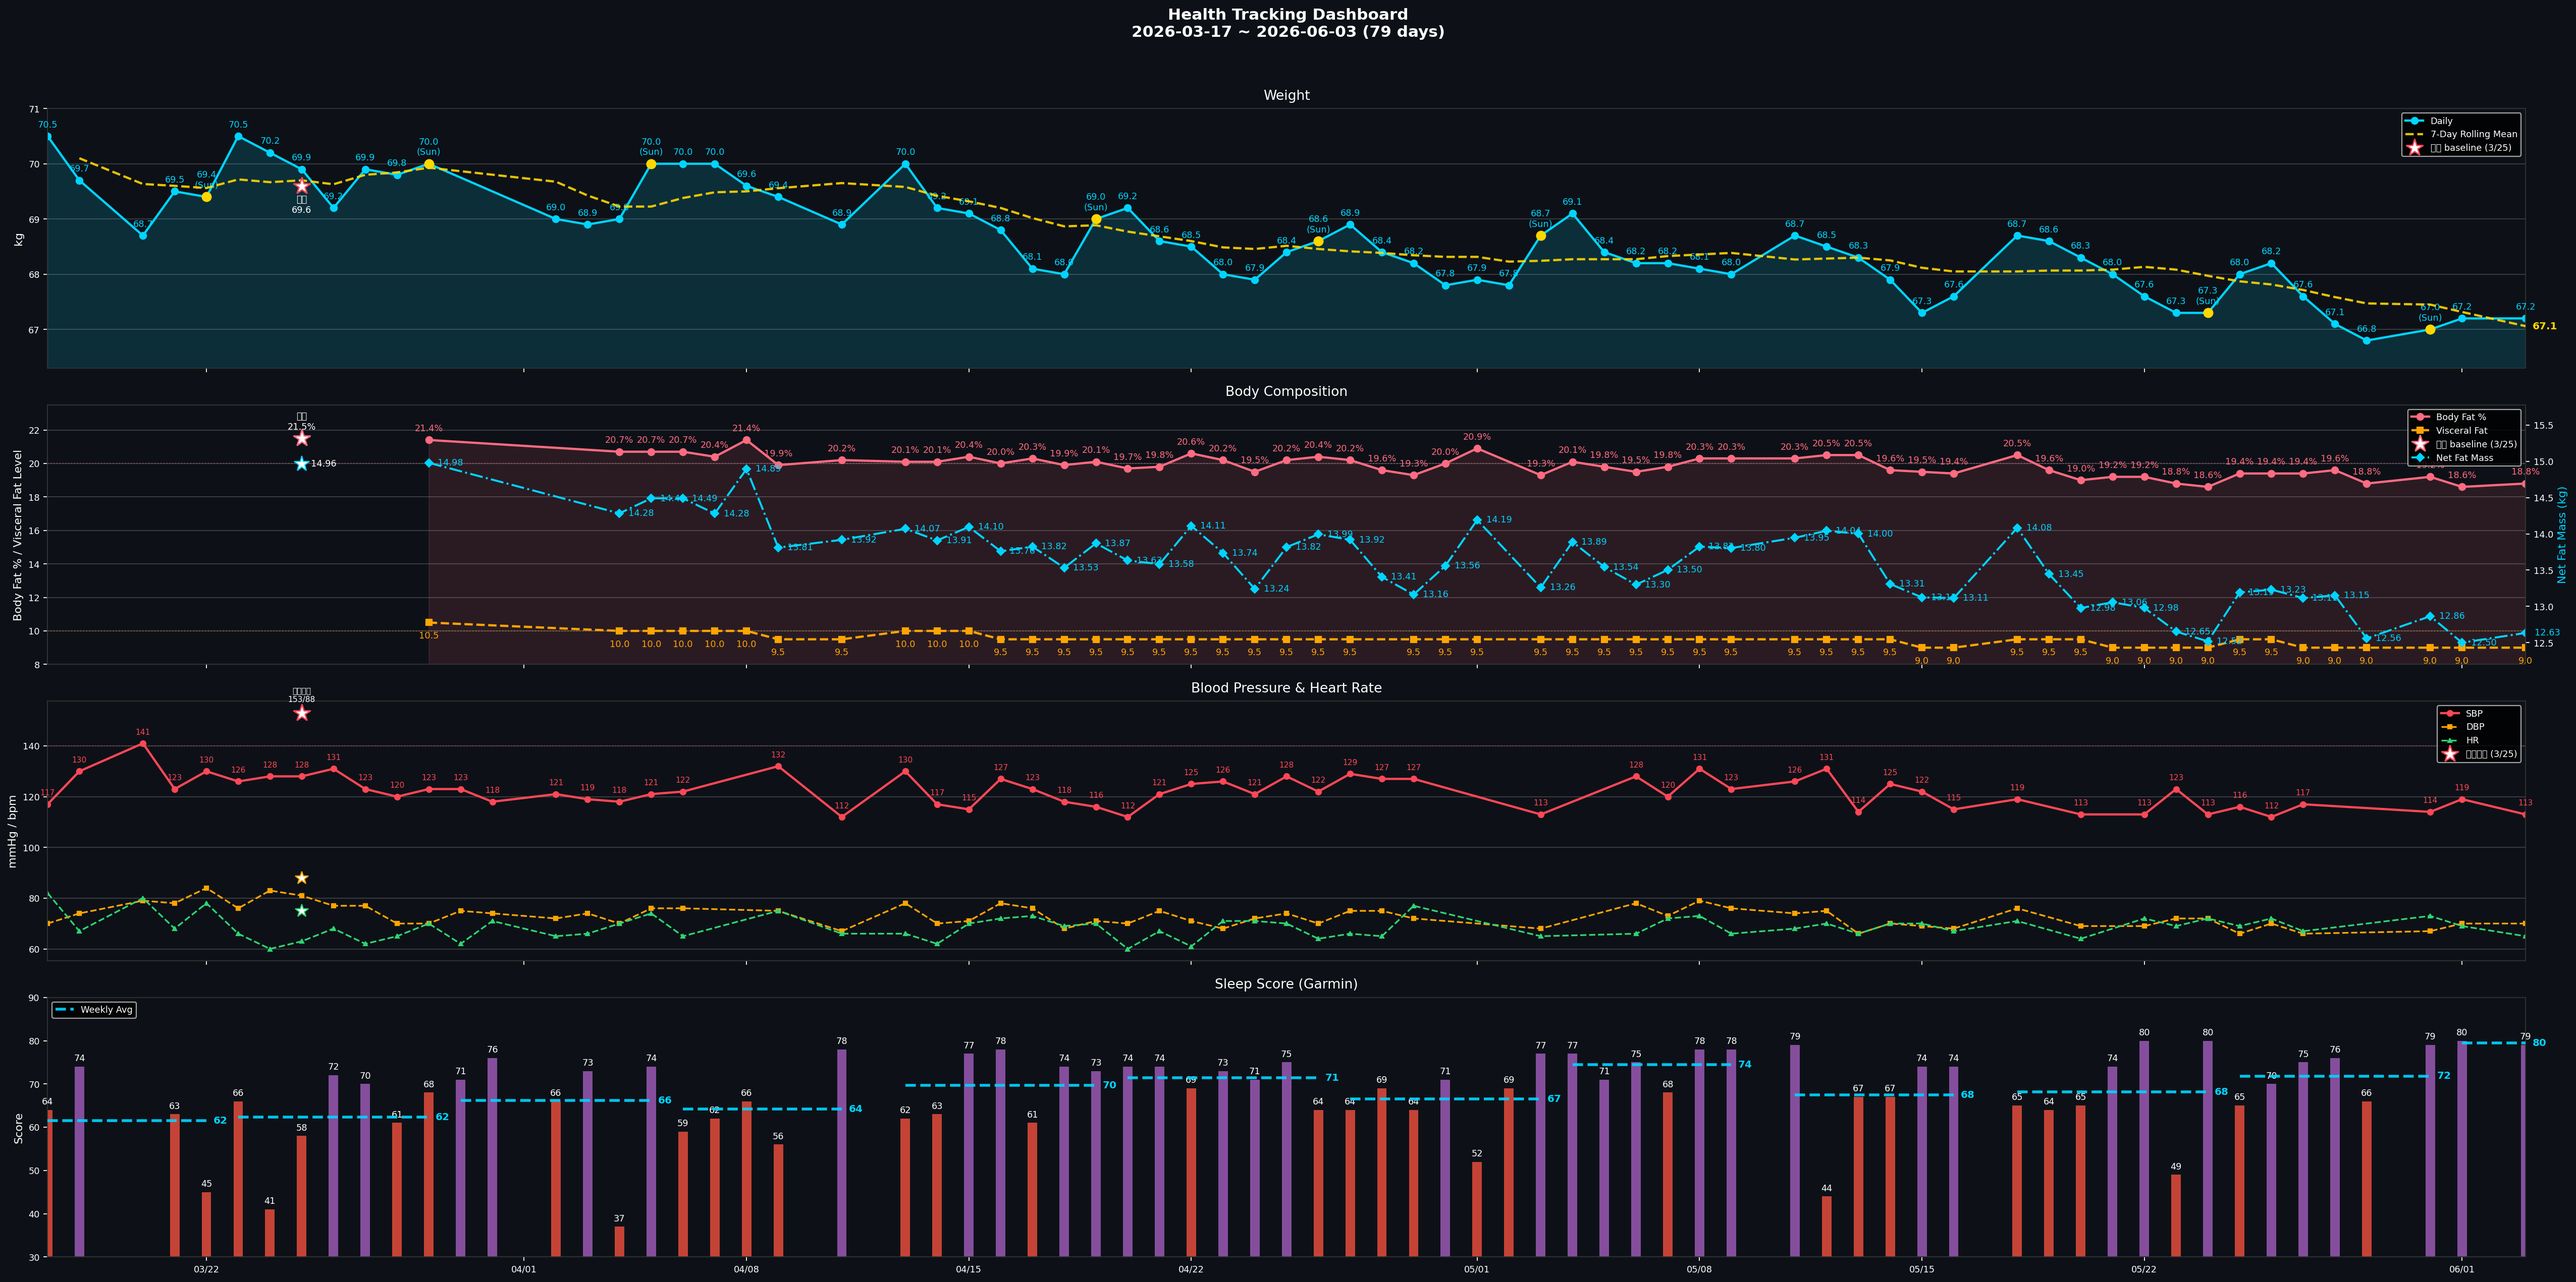
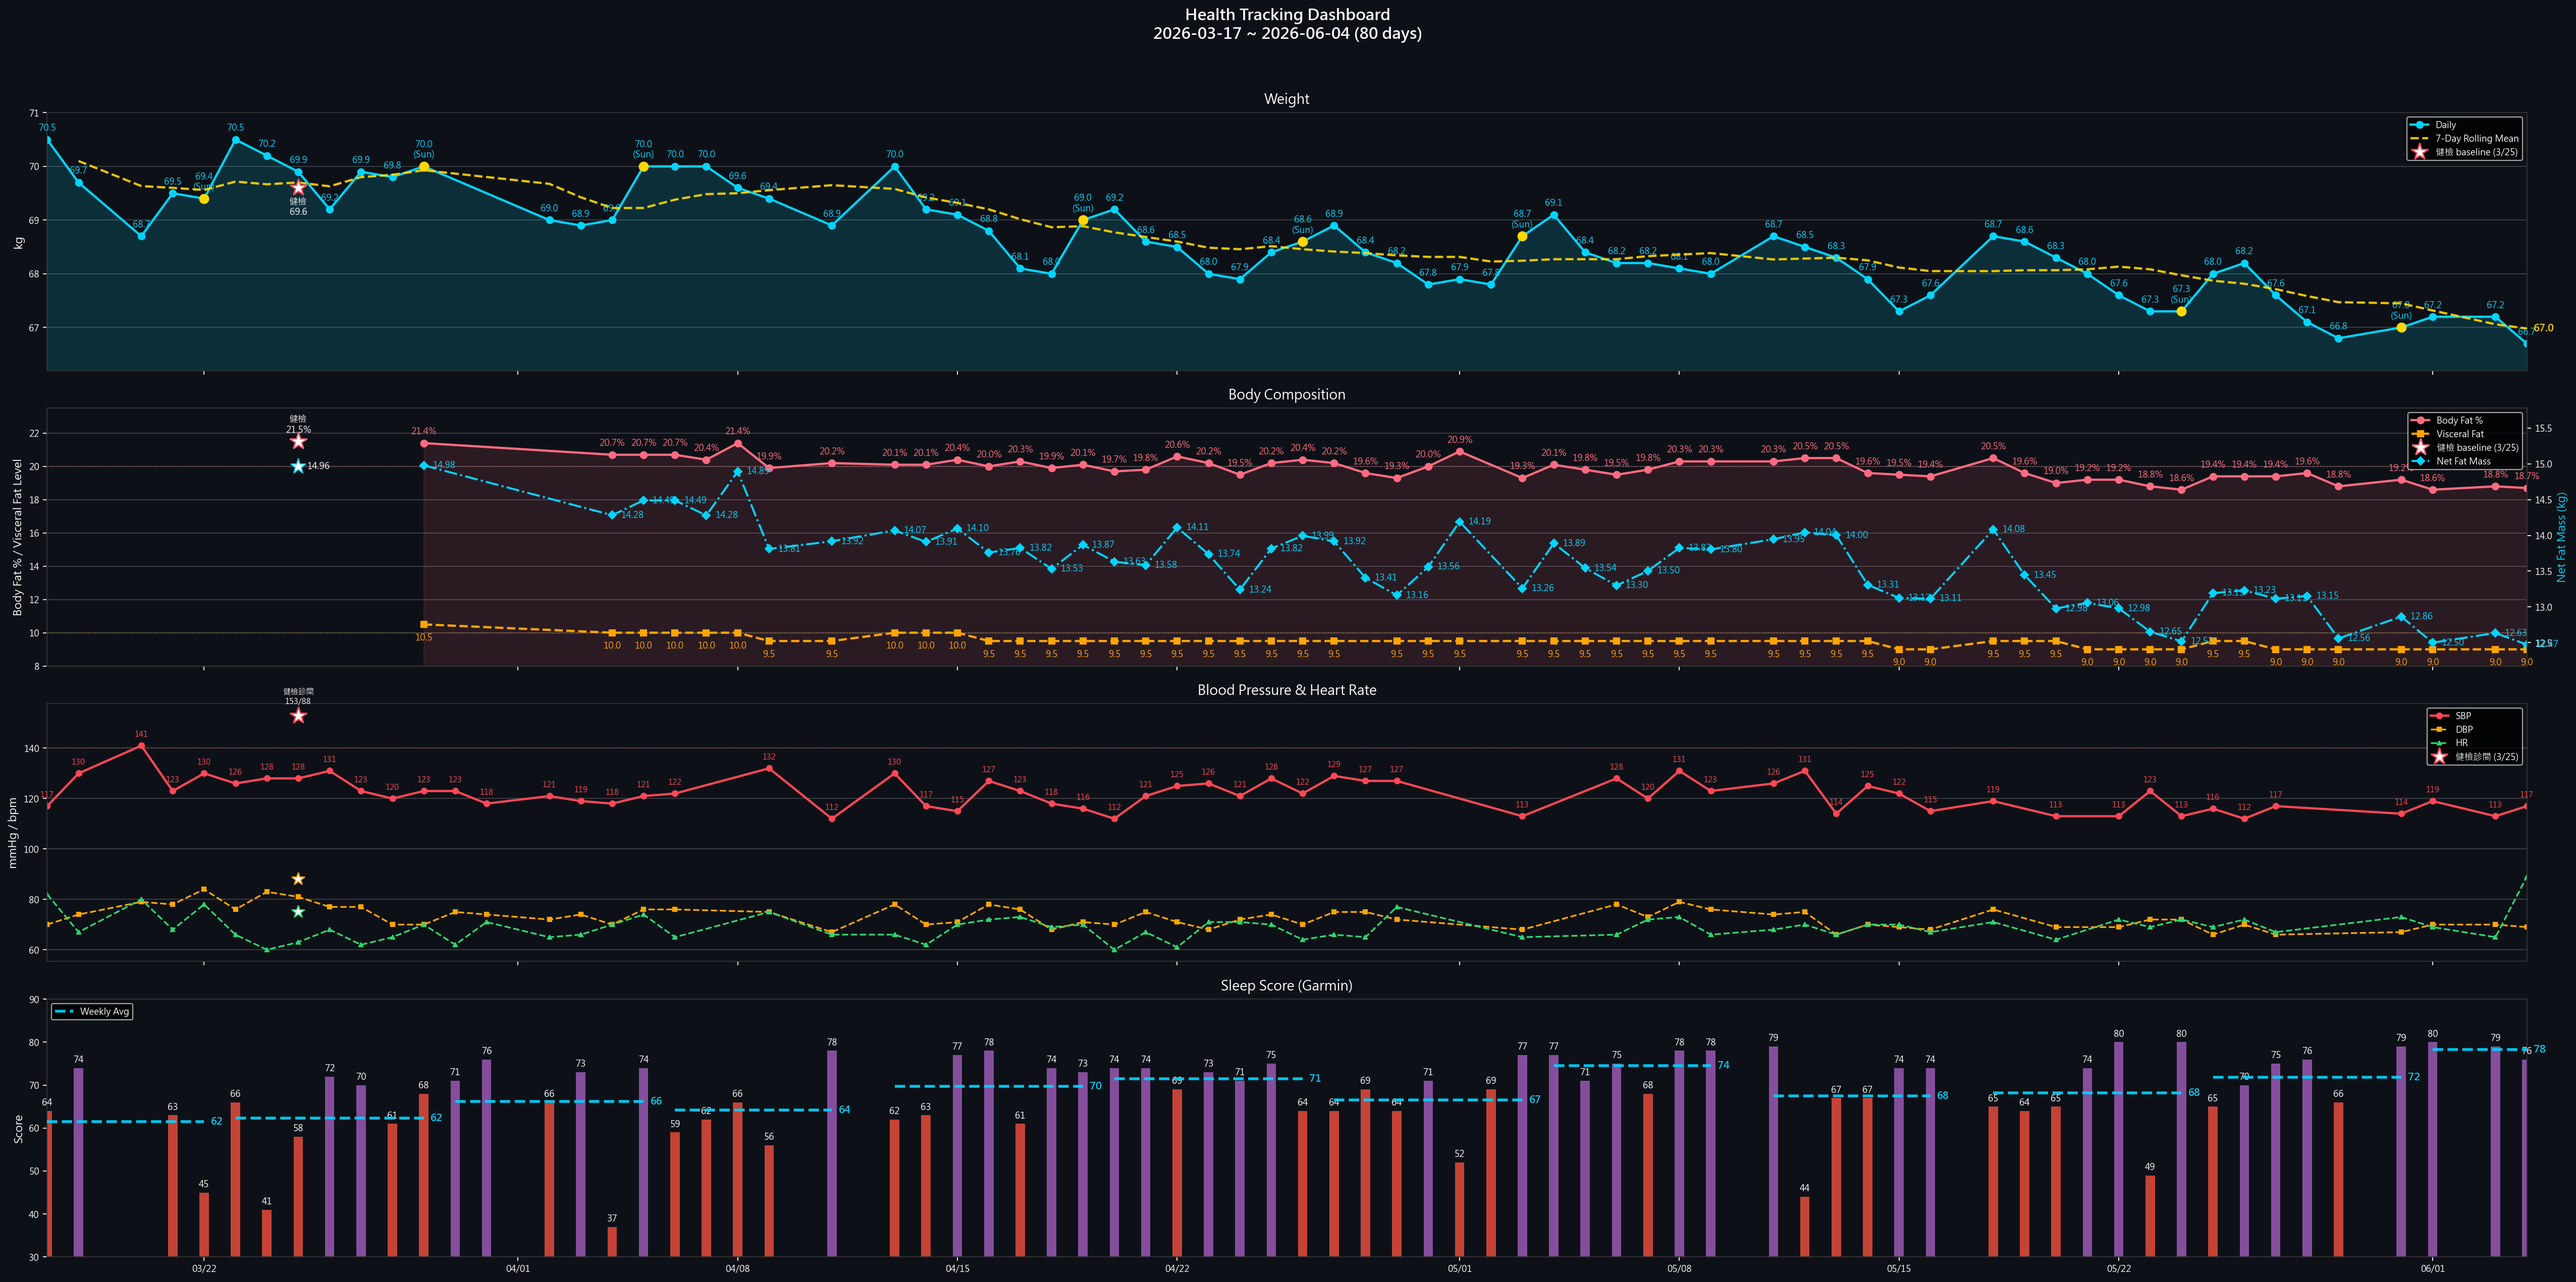
daily: 2026-06-04 健康紀錄
- 體重 66.7kg / 體脂 18.7% / 內臟脂肪 9.0 / 腰圍 82cm
- BP 117/69/89｜Sleep Score 76｜BB 41｜主觀恢復 3
- SpO2 最低 92%（回升）｜昨日飲水 2.0L 已回寫 Garmin
- 身體信號：清

diff --git a/data.js b/data.js
@@ -17,8 +17,8 @@ window.HC_DATA = {
     lede:    { en: "Sleep, BP, lipids, uric acid — one shared metabolic root. Lifestyle stacks first; medication only after lifestyle plateaus.",
                zh: "睡眠、血壓、血脂、尿酸——共享同一個代謝根源。生活方式介入優先，等到效果平台期再考慮藥物。" },
     progressLbl: { en: "Weight progress · 70 → 65 kg", zh: "體重進度 · 70 → 65 公斤" },
-    progressMeta: { en: "Day 79 · 67.3 kg · Sat official (5/23)", zh: "第 79 天 · 67.3 公斤 · 週六正式（5/23）" },
-    startDate: { en: "Start date · Mar 17, 2026 · Last sync 6/3", zh: "起始日期 · 2026 年 3 月 17 日 · 最後同步 6/3" },
+    progressMeta: { en: "Day 80 · 67.3 kg · Sat official (5/23)", zh: "第 80 天 · 67.3 公斤 · 週六正式（5/23）" },
+    startDate: { en: "Start date · Mar 17, 2026 · Last sync 6/4", zh: "起始日期 · 2026 年 3 月 17 日 · 最後同步 6/4" },
     startWeight: 70,
     targetWeight: 65,
     currentWeight: 67.3,
@@ -47,13 +47,13 @@ window.HC_DATA = {
     {
       sys: "heart", name: { en: "Blood Pressure", zh: "血壓" },
       val: "115/67", unit: "mmHg",
-      delta: { en: "W22 weekly avg (4 days) · target met (<130) · last 113/70 (6/3)", zh: "W22 週均（4 天）· 已達標 (<130) · 最新 113/70 (6/3)" },
+      delta: { en: "W22 weekly avg (4 days) · target met (<130) · last 117/69 (6/4)", zh: "W22 週均（4 天）· 已達標 (<130) · 最新 117/69 (6/4)" },
       cadence: { en: "Daily · weekly avg", zh: "每日 · 週均" },
       status: "ok",
     },
     {
       sys: "sleep", name: { en: "Sleep Score", zh: "睡眠分數" },
-      val: "79", unit: "Garmin",
+      val: "76", unit: "Garmin",
       delta: { en: "5/4 · OSA flag: T90 18.4% (severe)", zh: "5/4 · OSA 紅旗：T90 18.4%（重度）" },
       cadence: { en: "Daily · Garmin", zh: "每日 · Garmin" },
       status: "warn",
@@ -929,14 +929,14 @@ window.HC_DATA = {
   tracker: {
     // [SBP, DBP] — gaps filled with prior reading
     bp: [
-      [113,69], [113,69], [113,69], [113,69], [123,72], [113,72], [116,66], [112,70], [117,66], [117,66], [117,66], [114,67], [119,70], [113,70],
+      [113,69], [113,69], [113,69], [123,72], [113,72], [116,66], [112,70], [117,66], [117,66], [117,66], [114,67], [119,70], [113,70], [117,69],
     ],
     // daily weight (kg)
-    weight: [68.6, 68.3, 68, 67.6, 67.3, 67.3, 68, 68.2, 67.6, 67.1, 66.8, 67, 67.2, 67.2],
+    weight: [68.3, 68, 67.6, 67.3, 67.3, 68, 68.2, 67.6, 67.1, 66.8, 67, 67.2, 67.2, 66.7],
     // Garmin Sleep Score
-    sleep:  [64, 65, 74, 80, 49, 80, 65, 70, 75, 76, 66, 79, 80, 79],
+    sleep:  [65, 74, 80, 49, 80, 65, 70, 75, 76, 66, 79, 80, 79, 76],
     // Body Battery waking
-    bb:     [62, 54, 61, 56, 34, 59, 55, 53, 64, 59, 55, 69, 71, 53],
+    bb:     [54, 61, 56, 34, 59, 55, 53, 64, 59, 55, 69, 71, 53, 41],
     // SpO2 nightly nadir % (last 14 days, parallel to bp/weight/sleep/bb).
     // Earlier nights null until sync_data_js.py backfills; banner only uses trailing values.
     spo2Nadir: [null, null, null, null, null, 84, 79, 87, 85, 84, 84, 86, 82, 84],

diff --git a/reviews/daily/2026-06-04.md b/reviews/daily/2026-06-04.md
@@ -1,0 +1,98 @@
+# 晨間健康紀錄 — 2026-06-04
+
+*3 分鐘。起床後立即完成。記錄，不分析。*
+
+---
+
+## 體重 / 體組成
+
+**今日：66.7 kg**
+**體脂率：18.7 %**
+**內臟脂肪等級：9.0**
+**腰圍 (WHO midpoint)：82 cm**（最下肋骨下緣 + 髂嵴頂端兩點水平中點環繞，通常在肚臍上方 2-5 cm；**與健檢歷史可比**；目標維持 ≤ 83、推進至 < 80 cm）
+**腰圍 (最大腹圍)：— cm**（自然站立、吐氣末、不收腹，軟尺上下移動找最大讀數；通常在肚臍 0 至 -4 cm；**對內臟脂肪變化最敏感**）
+
+*每週六早晨為正式體重紀錄（排尿後、進食前；連 5 個工作日後、週末大餐前的真實低點）。其他日可選填。*
+*腰圍每日量（起床排尿後、進食前）。量兩個位置（WHO + max），方向應一致；若差距 > 3 cm 持續，考慮以 max 為主追蹤指標。*
+*WHO midpoint：科學標準，國健署 / 健檢 / metabolic syndrome 診斷用；最大腹圍：內臟脂肪 visceral fat correlation 最強。*
+
+---
+
+## 血壓（晨間）
+
+*起床後 1 小時內，上完廁所、進食前。坐下安靜 5 分鐘，連量兩次取第二次。*
+
+| 次數 | 收縮壓 | 舒張壓 | 心率 |
+|------|--------|--------|------|
+| 第一次 | | | |
+| 第二次 | 117 | 69 | 89 |
+
+---
+
+## 睡眠狀態
+
+**Garmin 偵測入睡：** 23:03
+**實際上床：**
+**實際起床：** 05:37
+**中途醒來：** 無
+**Garmin Sleep Score：** 76 / 100
+**Garmin Body Battery 起床值：** 41
+**主觀恢復感：** 3 / 5（1=極度疲憊, 5=精力充沛）
+**入睡 latency：** 自動估算
+
+### SpO2 夜間最低（7 晚趨勢）
+
+| 日期 | -6 | -5 | -4 | -3 | -2 | -1 | 今晨 |
+|------|----|----|----|----|----|----|------|
+| 日期 | 05-29 | 05-30 | 05-31 | 06-01 | 06-02 | 06-03 | 06-04 |
+| 最低 % | 91 | 88 | 86 | 89 | 86 | 87 | 92 |
+
+**今晨日均 SpO2：** 97%
+**< 88% 連續晚數：** 0（今晨 92% 回升；06-02/03 曾連 2 晚 < 88%。OSA 紅旗門檻：連 3 晚 < 88% → 強烈建議 PSG）
+
+**SpO2 全夜圖（含 hypnogram 條帶）：** ![](spo2/spo2_desat_2026-06-04.png)
+**SpO2 趨勢圖：** ![](spo2/spo2_desat_trend.png)
+**SpO2 全夜 Heatmap（28+ 晚 Venu 4 cohort）：** ![](spo2/spo2_heatmap_all_nights.png)
+**SpO2 × 睡眠分期 7 晚疊圖：** ![](spo2/spo2_hypnogram_7night_2026-06-04.png)
+
+*Sleep Score < 65 或 Body Battery < 50 連續三天 → 重新檢視睡眠修復方案。*
+
+---
+
+## 昨日回顧
+
+**實際飲水量：** 2.0 L（目標 ≥ 2.5L；高尿酸最佳 2.8–3.0L；17:00 前完成 60-70%）
+**昨日活動消耗：** 164 kcal（主動 + BMR；自動讀自 Garmin daily summary 活動區塊）
+  - < 100 kcal → 今日加強運動（補一段 Zone 2 走路 30 分）
+
+---
+
+## 身體信號
+
+*任何張力、疼痛、疲勞、異常 — 或「清」。記位置、性質、強度。*
+
+| 部位 | 性質 | 強度 (0-10) |
+|------|------|-------------|
+| — | 清 | 0 |
+
+---
+
+## 今日計畫速記
+
+- [ ] 飲水目標：2.5 L（建議 2.5–3.0L；錨點 09:30 ≥1.0L / 13:30 ≥2.0L / 17:00 截止 2.5L）
+- [ ] 補充品（核心，2026-05-11 v2）：
+  - 早餐（06:00）：D3 2000 IU + **K2 MK-7 180 mcg** + **L-Citrulline 4 g** + 益生菌
+  - 午餐前 30 min：Psyllium 5 g + 350 mL 水
+  - 晚餐前 30 min：Psyllium 5 g + 350 mL 水
+  - 晚餐後：魚油 ×4（拆 18:30 ×2 + 19:30 ×2）
+  - 睡前（21:00）：鎂甘胺酸 400 mg + 酸櫻桃 1000-2000 mg + **Glycine 純粉 3 g**
+  - 茶飲：洛神花 ×2 杯（早 + 14:00 前）
+  - 食物層：南瓜籽 30 g（15:30）+ **菇蕈 100-130 g/天**（午 30-50 + 晚 50-80）
+- [ ] 運動（17:00 固定）：走路（default walk）
+- [ ] 活動度/伸展（09:30 + 20:30 兩次錨點）
+- [ ] Wind-down（20:00 燈光降 + 螢幕濾鏡，液體截止）
+- [ ] 上床 21:30 / 熄燈 22:00（TST 目標 7h+）
+
+---
+
+*Filed: reviews/daily/2026-06-04.md*

diff --git a/reviews/weekly/2026-W23.md b/reviews/weekly/2026-W23.md
@@ -31,10 +31,10 @@
 
 |  | 一 | 二 | 三 | 四 | 五 | 六 | 日 |
 |--|----|----|----|----|----|----|-----|
-| 體重 (kg) | 67.2 | | 67.2 | | | | |
-| 體脂率 (%) | 18.6 | | 18.8 | | | | |
-| 內臟脂肪 | 9.0 | | 9.0 | | | | |
-| **腰圍 WHO (cm)** | 83 | | | | | | |
+| 體重 (kg) | 67.2 | | 67.2 | 66.7 | | | |
+| 體脂率 (%) | 18.6 | | 18.8 | 18.7 | | | |
+| 內臟脂肪 | 9.0 | | 9.0 | 9.0 | | | |
+| **腰圍 WHO (cm)** | 83 | | | 82 | | | |
 | **腰圍 max (cm)** | | | | | | | |
 
 **本週正式讀數（週六早晨）：** _____ kg｜體脂率：_____%｜內臟脂肪：_____｜腰圍：_____ cm
@@ -54,7 +54,7 @@
 | 06-01 (一) | 119 | 70 | 69 |
 | 06-02 (二) | | | |
 | 06-03 (三) | 113 | 70 | 65 |
-| 06-04 (四) | | | |
+| 06-04 (四) | 117 | 69 | 89 |
 | 06-05 (五) | | | |
 | 06-06 (六) | | | |
 | 06-07 (日) | | | |
@@ -72,7 +72,7 @@
 | 06-01 (一) | 22:39 | 05:32 | 無 | 80 | 71 | 3 |
 | 06-02 (二) | | | | | | |
 | 06-03 (三) | 22:02 | 05:17 | 無 | 79 | 53 | 3 |
-| 06-04 (四) | | | | | | |
+| 06-04 (四) | 23:03 | 05:37 | 無 | 76 | 41 | 3 |
 | 06-05 (五) | | | | | | |
 | 06-06 (六) | | | | | | |
 | 06-07 (日) | | | | | | |
@@ -105,7 +105,7 @@
 
 | 信號（部位+性質） | 出現天數 | 平均強度 | 趨勢（↑↓→） | 備註 |
 |-------------------|----------|----------|-------------|------|
-| 清（無信號） | 2 | 0 | → | 06-01, 06-03 |
+| 清（無信號） | 3 | 0 | → | 06-01, 06-03, 06-04 |
 
 **反覆出現（≥ 3 天）：** 無
 
@@ -130,6 +130,7 @@
 |------|------------------------|
 | 06-01 (一) | walk（Zone 2 走路） |
 | 06-03 (三) | walk（Zone 2 走路） |
+| 06-04 (四) | walk（Zone 2 走路） |
 
 ---
 

diff --git a/reports/daily-garmin/2026-06-03.md b/reports/daily-garmin/2026-06-03.md
@@ -6,22 +6,31 @@
 - 深眠：117 分｜REM：86 分
 - Sleep Score：79
 - Body Battery 起床值：53
+- 估算上床：21:50｜入睡 latency：13 分（範圍 13–33 分）
 
 ## 靜息心率
 - RHR：59.0 bpm
 
 ## 壓力
-- 日均：23
+- 日均：34
 
 ## 步數
-- 總計：50
+- 總計：10,938
 
 ## SpO2
 - 日均：97.0%
 - 最低：87%
 
+## 活動
+| 時段 | 類型 | 距離 | 時長 | 平均 HR | 最大 HR | 主動 kcal | 含 BMR |
+|------|------|------|------|---------|---------|-----------|--------|
+| 08:58 | cycling | 1.31 km | 14.7 min | 121 | 155 | 93 | 112 |
+| 16:35 | cycling | 1.15 km | 6.0 min | 123 | 138 | 44 | 52 |
+| **小計** | 2 段 | **2.46 km** | **20.7 min** | — | — | **137** | **164** |
+
 ## 飲水
-- 實際：— （Garmin Connect 未紀錄，請於 check-in 手動輸入）
-- 目標：2.00 L
+- 實際：0.00 L
+- 目標：2.31 L
+- 運動流汗耗水：0.31 L
 
 _Source: data/garmin/2026-06-03.json (gitignored)_

diff --git a/reports/daily-garmin/2026-06-04.md b/reports/daily-garmin/2026-06-04.md
@@ -1,0 +1,33 @@
+# Garmin 每日摘要 — 2026-06-04
+
+## 睡眠
+- 就寢：23:03｜起床：05:37
+- 總時長：6h 27m
+- 深眠：75 分｜REM：57 分
+- Sleep Score：76
+- Body Battery 起床值：41
+
+## 靜息心率
+- RHR：60.0 bpm
+
+## 壓力
+- 日均：24
+
+## 步數
+- 總計：322
+
+## SpO2
+- 日均：97.0%
+- 最低：92%
+
+## 活動
+| 時段 | 類型 | 距離 | 時長 | 平均 HR | 最大 HR | 主動 kcal | 含 BMR |
+|------|------|------|------|---------|---------|-----------|--------|
+| 08:59 | cycling | 1.17 km | 19.9 min | 115 | 154 | 107 | 133 |
+
+## 飲水
+- 實際：0.00 L
+- 目標：2.27 L
+- 運動流汗耗水：0.27 L
+
+_Source: data/garmin/2026-06-04.json (gitignored)_
